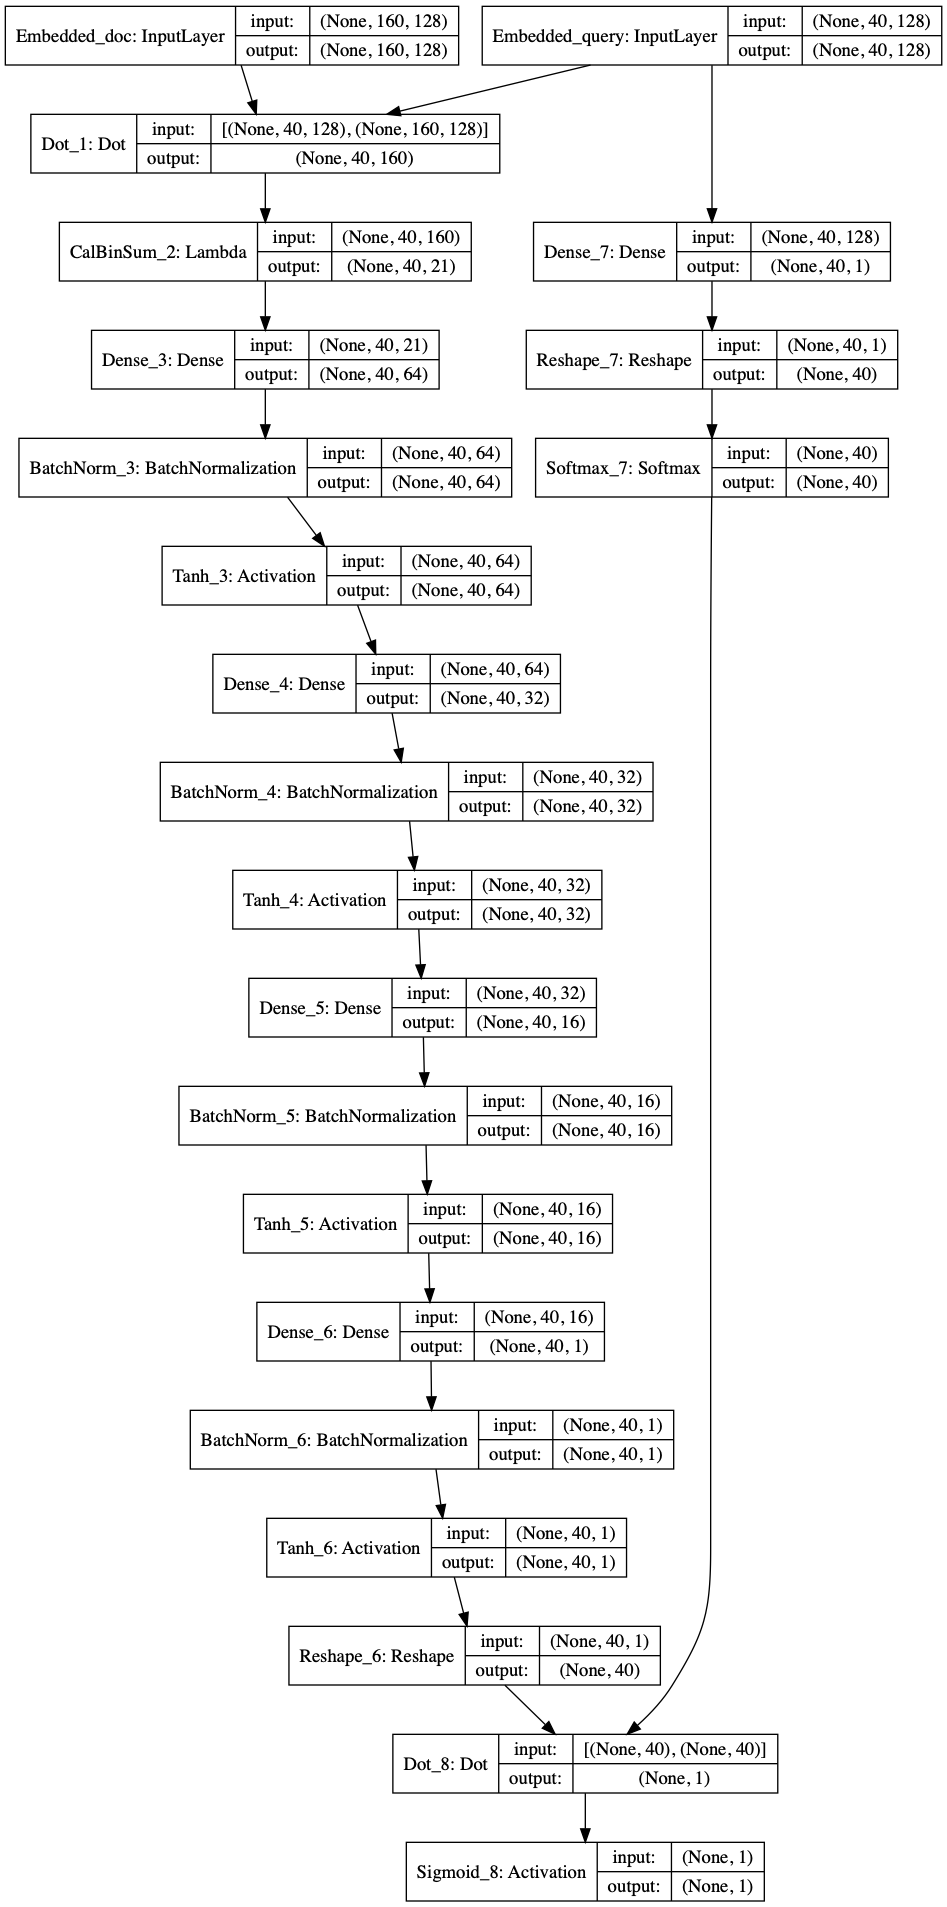
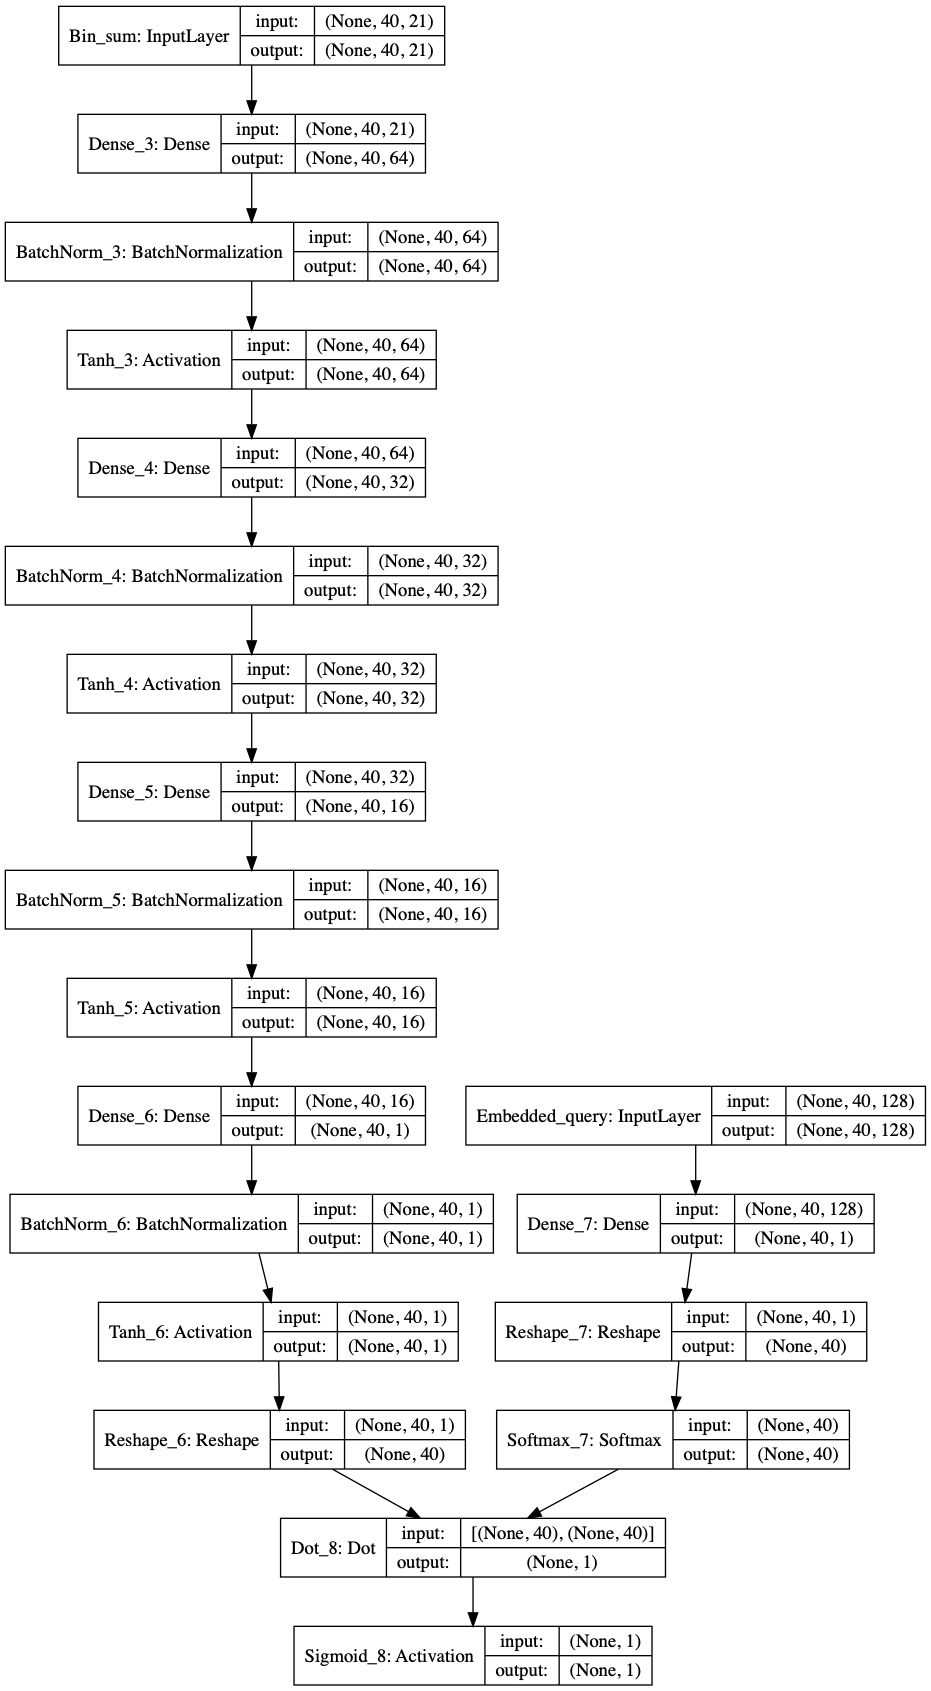
refactor: calculate bin_sum before feed data into network

diff --git a/dataset.py b/dataset.py
@@ -3,7 +3,7 @@ from typing import List, Tuple, Dict, Iterator
 import numpy as np
 from tensorflow import keras
 from jieba import Tokenizer
-from config import VEC_SIZE, MAX_QUERY_WC, MAX_DOC_WC, \
+from config import VEC_SIZE, MAX_QUERY_WC, MAX_DOC_WC, BIN_NUM, \
     DATA_FILE_PATH, DICTIONARY_PATH, FIGURE_DIR
 
 
@@ -162,29 +162,20 @@ def draw_data_distribution() -> None:
 from word2vec import get_vectors
 
 
-def sent2vec(word_list: List[str], max_wc: int) -> np.ndarray:
-    embedded_vec: np.ndarray = np.zeros(shape = (max_wc, VEC_SIZE), dtype = np.float32)
+def get_normalized_vectors(word_list: List[str], epsilon: float = 1E-12) -> List[np.ndarray]:
     vec_list: List[np.ndarray] = get_vectors(word_list = word_list)
+    for i, vec in enumerate(vec_list):
+        norm: float = max(np.linalg.norm(vec), epsilon)
+        vec_list[i] = vec / norm
+    return vec_list
+
+
+def sent2vec(word_list: List[str], max_wc: int) -> np.ndarray:
+    embedded_sent: np.ndarray = np.zeros(shape = (max_wc, VEC_SIZE), dtype = np.float32)
+    vec_list: List[np.ndarray] = get_normalized_vectors(word_list = word_list)
     for i, vec in zip(range(max_wc), vec_list):
-        embedded_vec[i] = vec
-    return embedded_vec
-
-
-def get_all_data(dataset: str) -> Tuple[List[np.ndarray], np.ndarray]:
-    query_vectors: List[np.ndarray] = []
-    doc_vectors: List[np.ndarray] = []
-    labels: List[np.ndarray] = []
-    for query, doc, label in data_tuple_generator(dataset = dataset):
-        split_query: List[str] = cut_sentence(sentence = query)
-        split_doc: List[str] = cut_sentence(sentence = doc)
-        query_vectors.append(sent2vec(word_list = split_query, max_wc = MAX_QUERY_WC))
-        doc_vectors.append(sent2vec(word_list = split_doc, max_wc = MAX_DOC_WC))
-        labels.append(label)
-    
-    query_vectors: np.ndarray = np.array(query_vectors, dtype = np.float32)
-    doc_vectors: np.ndarray = np.array(doc_vectors, dtype = np.float32)
-    labels: np.ndarray = np.array(labels, dtype = np.float32)
-    return [query_vectors, doc_vectors], labels
+        embedded_sent[i] = vec
+    return embedded_sent
 
 
 class DataSequence(keras.utils.Sequence):
@@ -194,30 +185,40 @@ class DataSequence(keras.utils.Sequence):
         self.dataset: str = dataset
         self.batch_size: int = batch_size
         self.queries: List[List[str]] = []
-        self.docs: List[List[str]] = []
-        self.labels: List[int] = []
+        self.doc_lists: List[List[List[str]]] = []
+        self.label_lists: List[List[int]] = []
         for query, doc_list, label_list in query_doc_label_generator(dataset = dataset):
-            self.queries += [cut_sentence(sentence = query)] * len(label_list)
-            self.docs.extend(map(cut_sentence, doc_list))
-            self.labels.extend(label_list)
+            self.queries.append(cut_sentence(sentence = query))
+            self.doc_lists.append(list(map(cut_sentence, doc_list)))
+            self.label_lists.append(label_list)
     
     def __getitem__(self, index: int) -> Tuple[List[np.ndarray], np.ndarray]:
         queries: List[List[str]] = self.queries[index * self.batch_size:(index + 1) * self.batch_size]
-        docs: List[List[str]] = self.docs[index * self.batch_size:(index + 1) * self.batch_size]
-        labels: List[int] = self.labels[index * self.batch_size:(index + 1) * self.batch_size]
+        doc_lists: List[List[List[str]]] = self.doc_lists[index * self.batch_size:(index + 1) * self.batch_size]
+        label_lists: List[List[int]] = self.label_lists[index * self.batch_size:(index + 1) * self.batch_size]
         
-        embedded_queries: List[np.ndarray] = list(map(lambda query: sent2vec(word_list = query, max_wc = MAX_QUERY_WC),
-                                                      queries))
-        embedded_docs: List[np.ndarray] = list(map(lambda doc: sent2vec(word_list = doc, max_wc = MAX_DOC_WC),
-                                                   docs))
+        n_sample: int = sum(map(len, label_lists))
+        embedded_queries: np.ndarray = np.zeros(shape = (n_sample, MAX_QUERY_WC, VEC_SIZE), dtype = np.float32)
+        bin_sum: np.ndarray = np.zeros(shape = (n_sample, MAX_QUERY_WC, BIN_NUM), dtype = np.float32)
+        labels: np.ndarray = np.zeros(shape = (n_sample,), dtype = np.float32)
         
-        embedded_queries: np.ndarray = np.array(embedded_queries, dtype = np.float32)
-        embedded_docs: np.ndarray = np.array(embedded_docs, dtype = np.float32)
-        labels: np.ndarray = np.array(labels, dtype = np.float32)
-        return [embedded_queries, embedded_docs], labels
+        s = 0
+        for query, doc_list, label_list in zip(queries, doc_lists, label_lists):
+            embedded_query: List[np.ndarray] = sent2vec(word_list = query, max_wc = MAX_QUERY_WC)
+            for doc, label in zip(doc_list, label_list):
+                embedded_doc: np.ndarray = sent2vec(word_list = doc, max_wc = MAX_DOC_WC)
+                qa_matrix = np.tensordot(embedded_query, embedded_doc, axes = (-1, -1))
+                for i in range(MAX_QUERY_WC):
+                    for j in range(MAX_DOC_WC):
+                        val: float = qa_matrix[i, j]
+                        k: int = int((val + 1) * (BIN_NUM - 1) / 2)
+                        bin_sum[s, i, k] = qa_matrix[i, j]
+                s += 1
+        
+        return [embedded_queries, bin_sum], labels
     
     def __len__(self) -> int:
-        return int(np.ceil(len(self.labels) / float(self.batch_size)))
+        return int(np.ceil(len(self.label_lists) / float(self.batch_size)))
 
 
 def main() -> None:

diff --git a/model.py b/model.py
@@ -1,15 +1,12 @@
 import os
 from typing import List
 from glob import glob
-import numpy as np
 import tensorflow as tf
 from tensorflow import keras
-from config import VEC_SIZE, MAX_QUERY_WC, MAX_DOC_WC, BIN_NUM, \
+from config import VEC_SIZE, MAX_QUERY_WC, BIN_NUM, \
     INITIAL_LR, INITIAL_DECAY, REGULARIZATION_PARAM, \
     MODEL_DIR, LATEST_MODEL_PATH, MODEL_FILE_PATTERN, FIGURE_DIR
 
-
-tf.enable_eager_execution()
 
 tf.set_random_seed(seed = 0)
 
@@ -25,30 +22,21 @@ def get_model_paths(sort_by: str = 'epoch', reverse: bool = False) -> List[str]:
 
 
 def build_network(model_path: str = None) -> keras.Model:
+    if model_path is None:
+        try:
+            model_paths: List[str] = get_model_paths(sort_by = 'val_acc', reverse = True)
+            model_path: str = model_paths[0]
+            print(f'best_model_path = {model_path}')
+        except IndexError:
+            model_path: str = LATEST_MODEL_PATH
+    try:
+        keras.models.load_model(filepath = model_path)
+    except OSError:
+        pass
+    
     # Inputs
     embedded_query = keras.layers.Input(shape = (MAX_QUERY_WC, VEC_SIZE), name = 'Embedded_query')
-    embedded_doc = keras.layers.Input(shape = (MAX_DOC_WC, VEC_SIZE), name = 'Embedded_doc')
-    
-    # Calculate QA Matching Matrix
-    Dot_1 = keras.layers.Dot(axes = [-1, -1], normalize = True, name = 'Dot_1')
-    qa_matrix = Dot_1([embedded_query, embedded_doc])  # shape == [BATCH_SIZE, MAX_QUERY_WC, MAX_DOC_WC]
-    
-    # Input Layer to Hidden Layer
-    def cal_bin_sum(input: tf.Tensor) -> tf.Tensor:
-        n_sample: int = input.shape[0]
-        output: np.ndarray = np.zeros(shape = (n_sample, MAX_QUERY_WC, BIN_NUM))
-        indexes: tf.Tensor = (input + 1) * (BIN_NUM - 1) / 2
-        indexes = keras.backend.cast(indexes, dtype = tf.int32)
-        for s in range(n_sample):
-            for i in range(MAX_QUERY_WC):
-                for j in range(MAX_DOC_WC):
-                    k: int = indexes[s, i, j]
-                    output[s, i, k] += input[s, i, j]
-        return keras.backend.variable(output)
-    
-    CalBinSum_2 = keras.layers.Lambda(function = cal_bin_sum, output_shape = (MAX_QUERY_WC, BIN_NUM),
-                                      name = 'CalBinSum_2')
-    bin_sum = CalBinSum_2(qa_matrix)  # shape == [BATCH_SIZE, MAX_QUERY_WC, BIN_NUM]
+    bin_sum = keras.layers.Input(shape = (MAX_QUERY_WC, BIN_NUM), name = 'Bin_sum')
     
     # Hidden Layers
     hidden_layer = bin_sum
@@ -81,25 +69,13 @@ def build_network(model_path: str = None) -> keras.Model:
     logits = Dot_8([query_weights, last_hidden_layer])  # shape == [BATCH_SIZE, 1]
     prediction = Sigmoid_8(logits)  # shape == [BATCH_SIZE, 1]
     
-    model = keras.Model(inputs = [embedded_query, embedded_doc], outputs = prediction)
+    model = keras.Model(inputs = [embedded_query, bin_sum], outputs = prediction)
     
-    # RMSprop_optimizer = keras.optimizers.RMSprop(lr = INITIAL_LR, decay = INITIAL_DECAY)
-    from tensorflow.python.keras.optimizers import TFOptimizer
-    RMSprop_optimizer = tf.train.RMSPropOptimizer(learning_rate = INITIAL_LR)
-    RMSprop_optimizer = TFOptimizer(optimizer = RMSprop_optimizer)
+    RMSprop_optimizer = keras.optimizers.RMSprop(lr = INITIAL_LR, decay = INITIAL_DECAY)
     model.compile(optimizer = RMSprop_optimizer, loss = 'binary_crossentropy', metrics = ['acc'])
     
-    if model_path is None:
-        try:
-            model_paths: List[str] = get_model_paths(sort_by = 'val_acc', reverse = True)
-            model_path: str = model_paths[0]
-            print(f'best_model_path = {model_path}')
-        except IndexError:
-            model_path: str = LATEST_MODEL_PATH
-    try:
-        model.load_weights(filepath = model_path)
-    except OSError:
-        model.save_weights(filepath = LATEST_MODEL_PATH)
+    model.save(filepath = LATEST_MODEL_PATH)
+    
     return model
 
 

diff --git a/config.py b/config.py
@@ -8,7 +8,7 @@ from typing import Dict, Pattern
 os.environ['KMP_DUPLICATE_LIB_OK'] = 'True'
 
 # batch size
-BATCH_SIZE: int = 64
+BATCH_SIZE: int = 16
 
 # word vector size
 VEC_SIZE: int = 128
@@ -35,7 +35,7 @@ REGULARIZATION_PARAM: float = 1E-2
 WORKERS: int = cpu_count()
 WORKERS = max(1, int(0.75 * WORKERS))
 
-# labels
+# label_lists
 POSITIVE: int = 1
 NEGATIVE: int = 0
 

diff --git a/training.py b/training.py
@@ -1,6 +1,6 @@
 from typing import List
 from tensorflow import keras
-from dataset import get_all_data, DataSequence
+from dataset import DataSequence
 from config import BATCH_SIZE, WORKERS, \
     MODEL_FMT_STR, MODEL_FILE_PATTERN, LATEST_MODEL_PATH, \
     LOG_DIR, LOG_FILE_PATH
